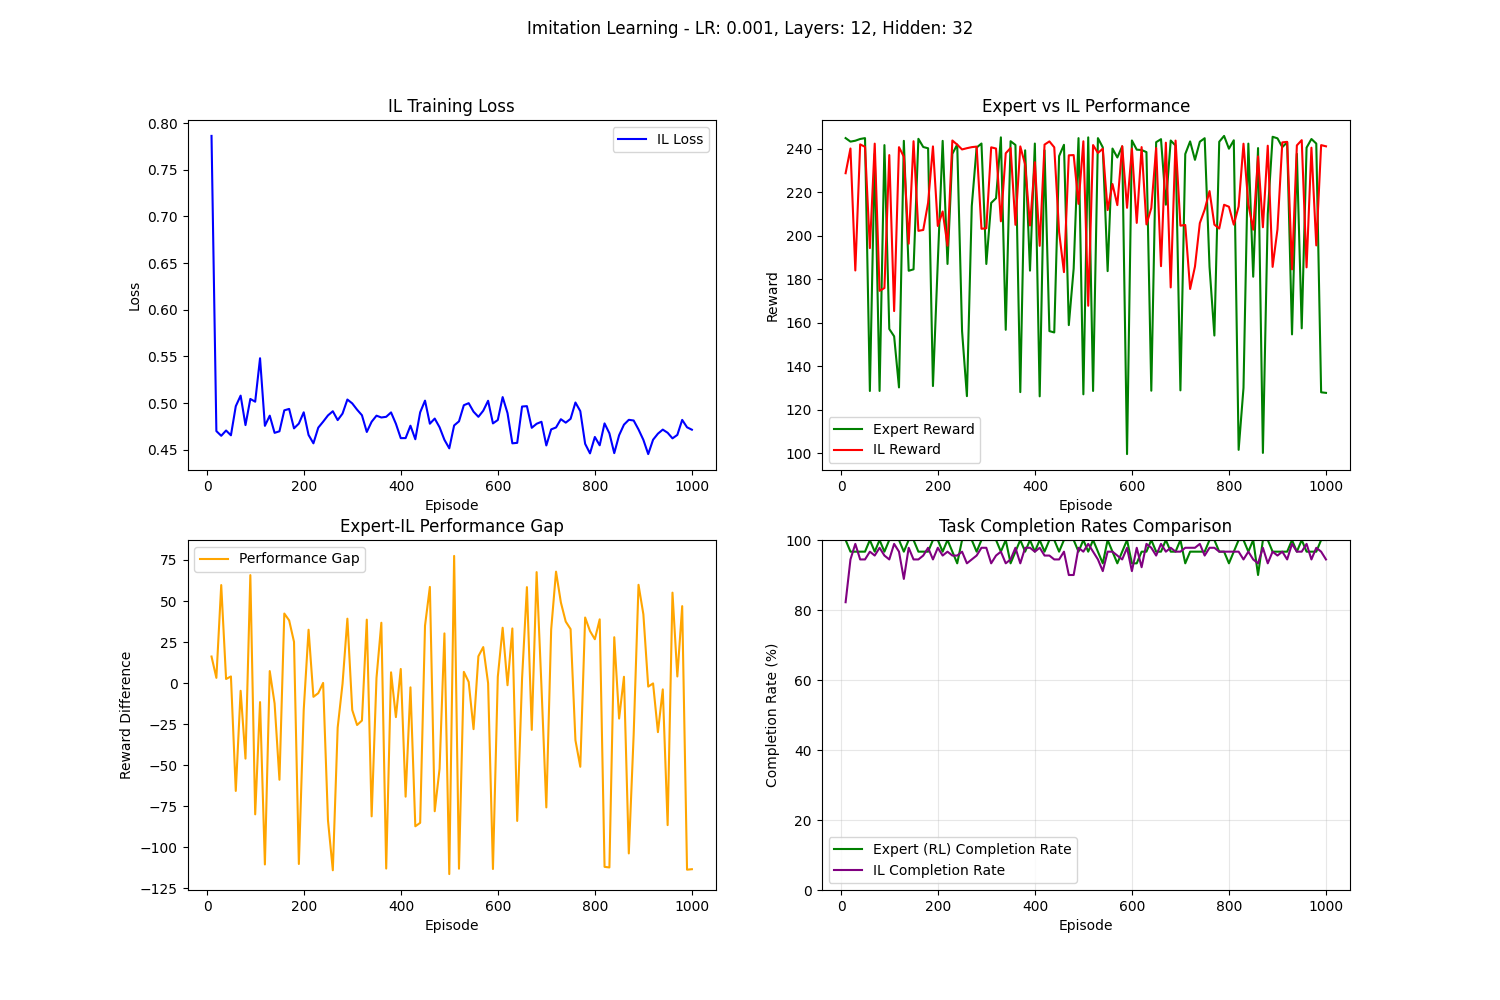
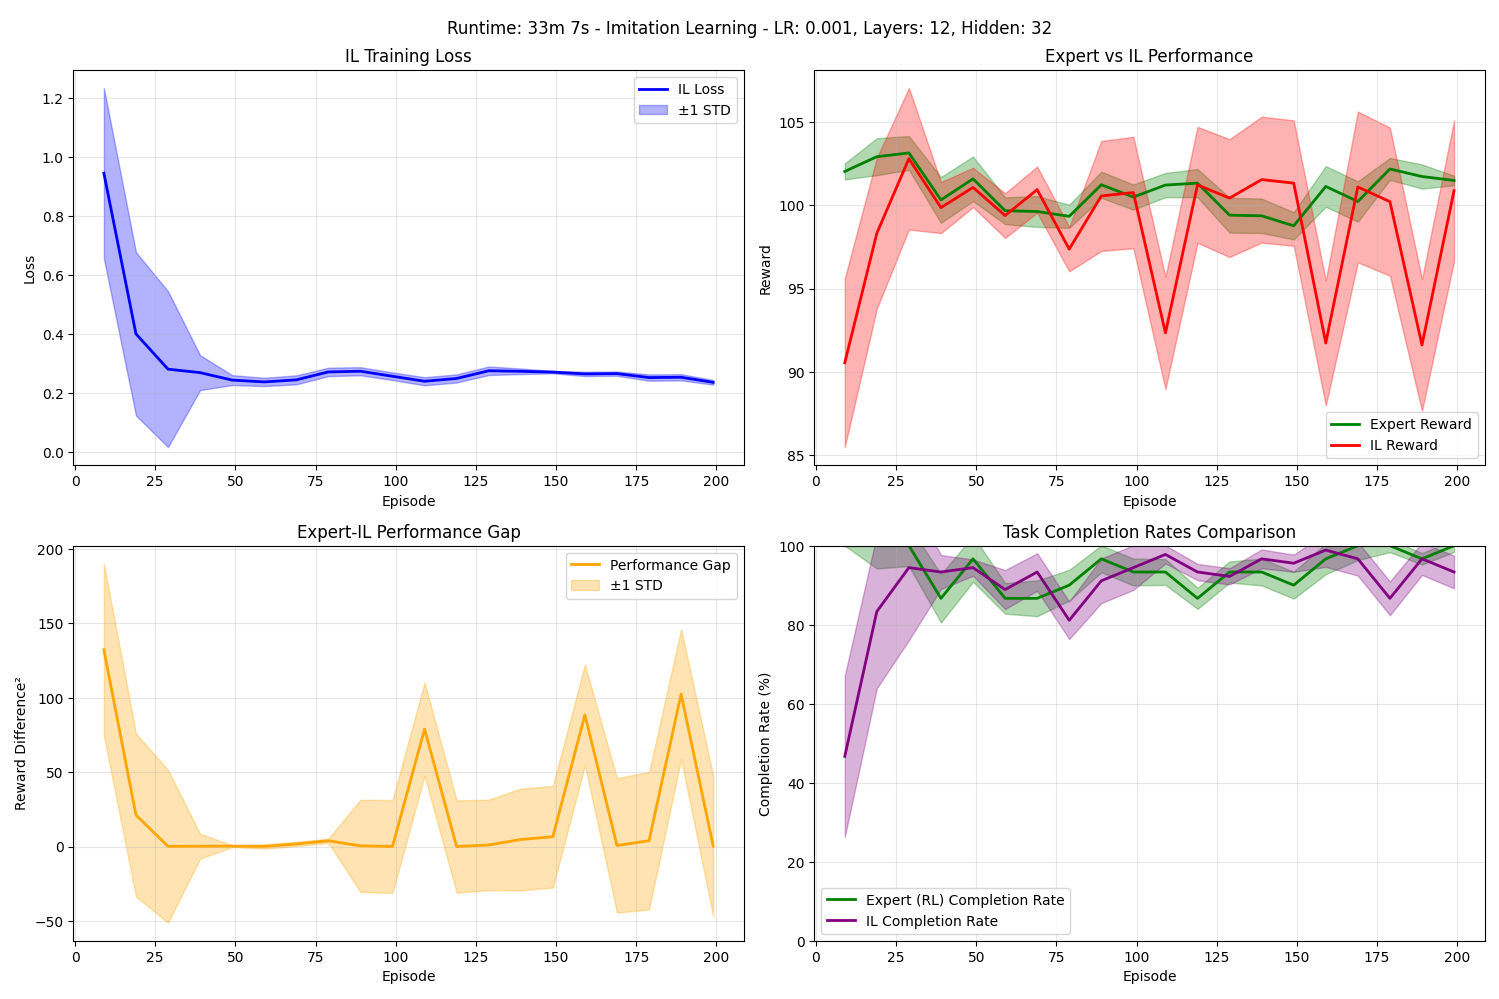
updated plot

diff --git a/IL_run_ppo.py b/IL_run_ppo.py
@@ -278,7 +278,7 @@ def update_IL_plots(axis, episodes, losses, RL_rewards, IL_rewards, IL_done_rate
                           losses_np - losses_std, 
                           losses_np + losses_std, 
                           color='b', alpha=0.3, label='±1 STD')
-    axis[0,0].set_title('IL Training Loss')
+    axis[0,0].set_title('Learner Training Loss')
     axis[0,0].set_xlabel('Episode')
     axis[0,0].set_ylabel('Loss')
     axis[0,0].legend()
@@ -381,12 +381,12 @@ def plot_IL_results(episodes, losses, RL_rewards, IL_rewards, IL_done_rates, RL_
     
     # Plot 1: Final IL training loss with variance
     plt.subplot(2, 2, 1)
-    plt.plot(episodes_np, losses_np, color='b', linewidth=2, label='IL Loss')
+    plt.plot(episodes_np, losses_np, color='b', linewidth=2, label='Learner Loss')
     plt.fill_between(episodes_np, 
                           losses_np - final_losses_std, 
                           losses_np + final_losses_std, 
                           color='b', alpha=0.3, label='±1 STD')
-    plt.title('Final IL Training Loss')
+    plt.title('Learner Training Loss')
     plt.xlabel('Episode')
     plt.ylabel('Loss')
     plt.legend()
@@ -399,12 +399,12 @@ def plot_IL_results(episodes, losses, RL_rewards, IL_rewards, IL_done_rates, RL_
                           RL_rewards_np - final_RL_rewards_std, 
                           RL_rewards_np + final_RL_rewards_std, 
                           color='g', alpha=0.3)
-    plt.plot(episodes_np, IL_rewards_np, color='r', linewidth=2, label='IL Reward')
+    plt.plot(episodes_np, IL_rewards_np, color='r', linewidth=2, label='Learner Reward')
     plt.fill_between(episodes_np, 
                           IL_rewards_np - final_IL_rewards_std, 
                           IL_rewards_np + final_IL_rewards_std, 
                           color='r', alpha=0.3)
-    plt.title('Final Expert vs IL Performance')
+    plt.title('Final Expert vs Learner Performance')
     plt.xlabel('Episode')
     plt.ylabel('Reward')
     plt.legend()
@@ -421,7 +421,7 @@ def plot_IL_results(episodes, losses, RL_rewards, IL_rewards, IL_done_rates, RL_
                           reward_diff_np - final_diff_std, 
                           reward_diff_np + final_diff_std, 
                           color='orange', alpha=0.3, label='±1 STD')
-    plt.title('Final Expert-IL Performance Gap')
+    plt.title('Expert-Learner Performance Gap')
     plt.xlabel('Episode')
     plt.ylabel('Reward Difference²')
     plt.legend()
@@ -438,7 +438,7 @@ def plot_IL_results(episodes, losses, RL_rewards, IL_rewards, IL_done_rates, RL_
                               color='green', alpha=0.3)
     
     if len(IL_done_rates) > 0:
-        plt.plot(episodes_np, IL_done_rates_np, color='purple', linewidth=2, label='IL Completion Rate')
+        plt.plot(episodes_np, IL_done_rates_np, color='purple', linewidth=2, label='Learner Completion Rate')
         plt.fill_between(episodes_np, 
                               IL_done_rates_np - final_IL_done_std, 
                               IL_done_rates_np + final_IL_done_std, 
@@ -583,7 +583,7 @@ def plot_test_results(IL_rewards, IL_dones, args):
                         color='blue', alpha=0.3, label='±1 STD')
     axes[0].axhline(y=sum(IL_rewards)/len(IL_rewards), color='red', linestyle='--', 
                    label=f'Average: {sum(IL_rewards)/len(IL_rewards):.1f}')
-    axes[0].set_title('IL Agent - Episode Rewards')
+    axes[0].set_title('Learner Agent - Episode Rewards')
     axes[0].set_xlabel('Episode')
     axes[0].set_ylabel('Reward')
     axes[0].legend()
@@ -597,14 +597,14 @@ def plot_test_results(IL_rewards, IL_dones, args):
                         color='green', alpha=0.3, label='±1 STD')
     axes[1].axhline(y=sum(IL_dones)/len(IL_dones), color='red', linestyle='--', 
                    label=f'Average: {sum(IL_dones)/len(IL_dones):.1f}%')
-    axes[1].set_title('IL Agent - Episode Completion Rates')
+    axes[1].set_title('Learner Agent - Episode Completion Rates')
     axes[1].set_xlabel('Episode')
     axes[1].set_ylabel('Completion Rate (%)')
     axes[1].set_ylim(0, 100)
     axes[1].legend()
     axes[1].grid(True, alpha=0.3)
     
-    plt.suptitle(f"IL Test Results - Task: {args.task}")
+    plt.suptitle(f"Learner Test Results - Task: {args.task}")
     plt.tight_layout()
     
     # Save the plot
